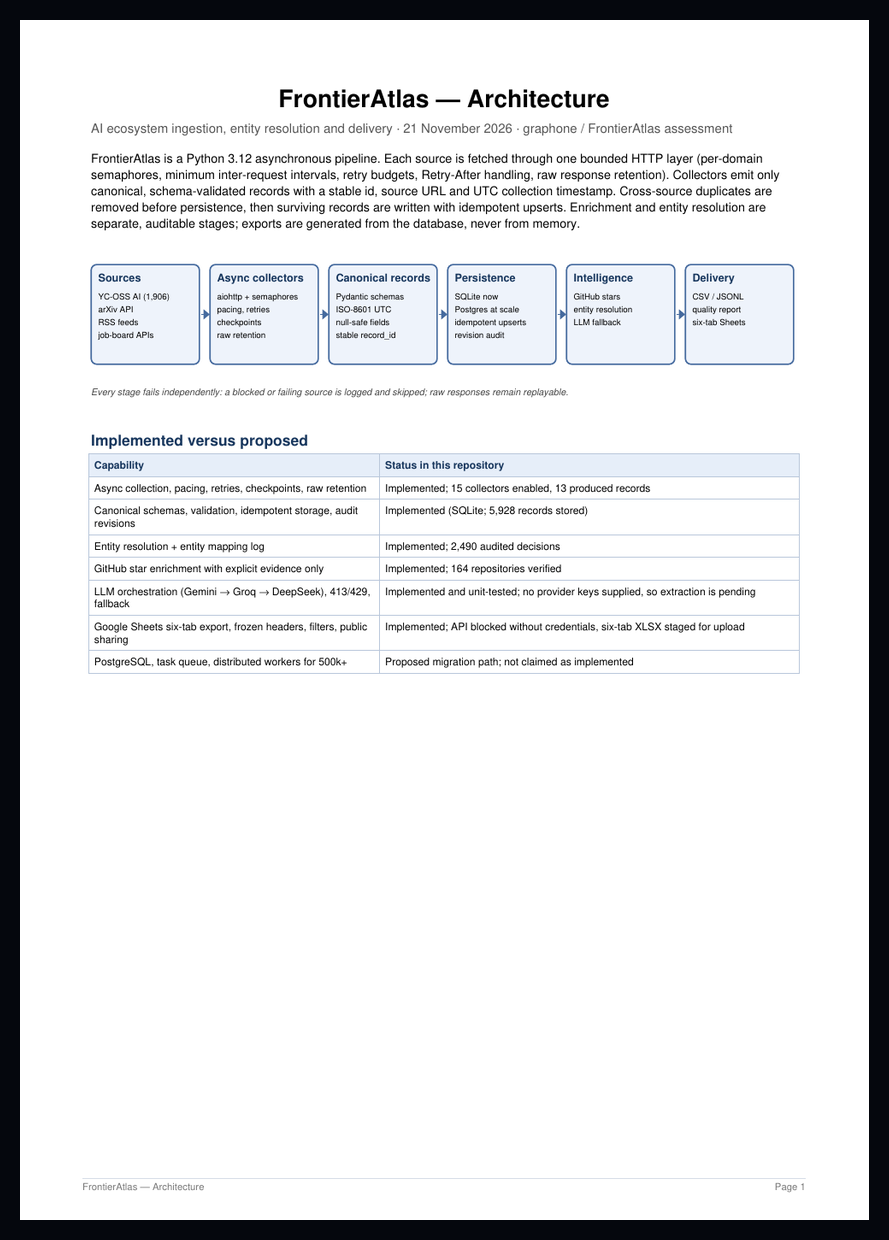
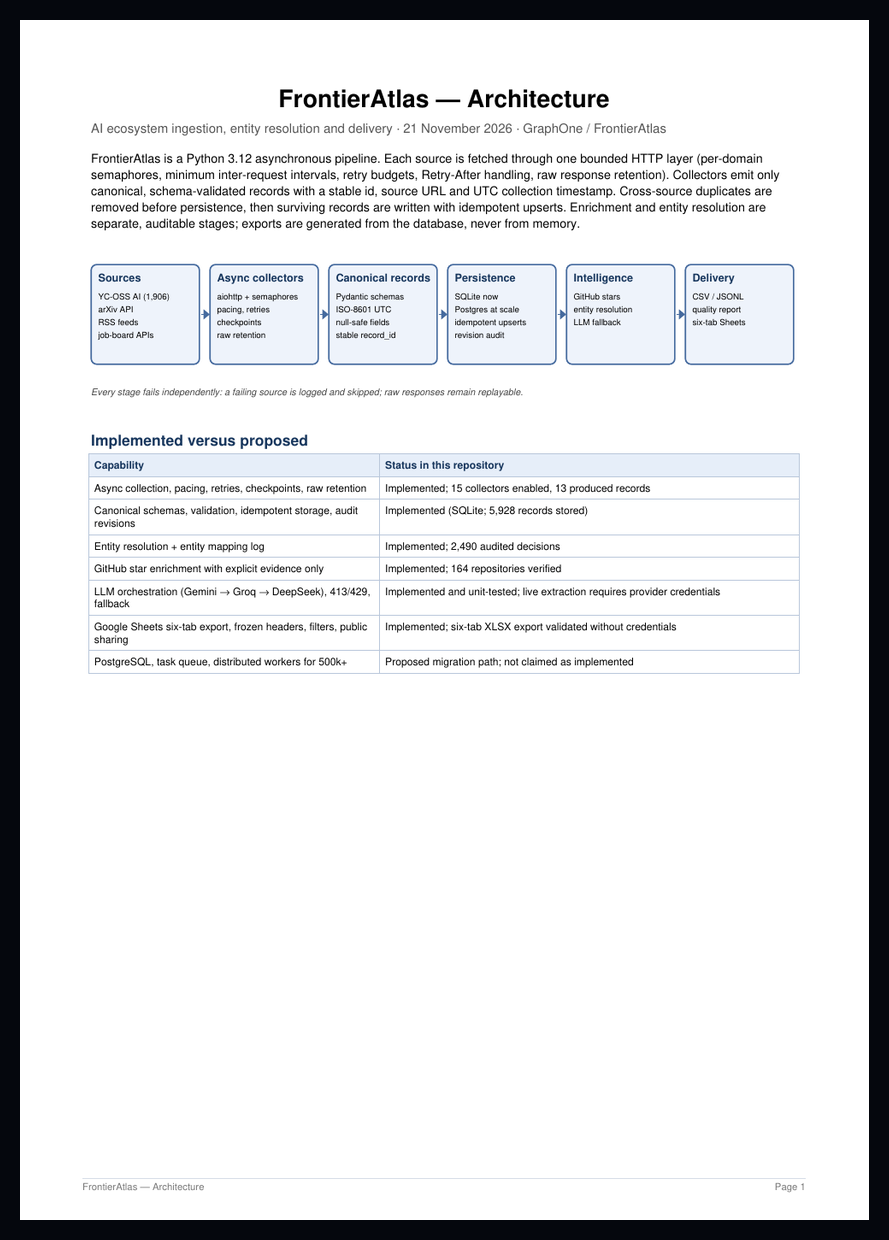
Remove internal planning docs and refresh architecture artifact

diff --git a/scripts/build_architecture_pdf.py b/scripts/build_architecture_pdf.py
@@ -41,7 +41,7 @@ def diagram() -> Drawing:
             start = x + box_width + 1
             drawing.add(Line(start, y + box_height / 2, start + gap - 2, y + box_height / 2, strokeColor=colors.HexColor("#456a9e")))
             drawing.add(Polygon([start + gap - 2, y + box_height / 2, start + gap - 5, y + box_height / 2 + 2.5, start + gap - 5, y + box_height / 2 - 2.5], fillColor=colors.HexColor("#456a9e"), strokeColor=colors.HexColor("#456a9e")))
-    drawing.add(String(0, 12, "Every stage fails independently: a blocked or failing source is logged and skipped; raw responses remain replayable.", fontName="Helvetica-Oblique", fontSize=6.5, fillColor=colors.HexColor("#444444")))
+    drawing.add(String(0, 12, "Every stage fails independently: a failing source is logged and skipped; raw responses remain replayable.", fontName="Helvetica-Oblique", fontSize=6.5, fillColor=colors.HexColor("#444444")))
     return drawing
 
 
@@ -90,7 +90,7 @@ def build() -> None:
 
     story = [
         Paragraph("FrontierAtlas — Architecture", h1),
-        Paragraph("AI ecosystem ingestion, entity resolution and delivery · 21 November 2026 · graphone / FrontierAtlas assessment", subtitle),
+        Paragraph("AI ecosystem ingestion, entity resolution and delivery · 21 November 2026 · GraphOne / FrontierAtlas", subtitle),
         Paragraph(
             "FrontierAtlas is a Python 3.12 asynchronous pipeline. Each source is fetched through one bounded HTTP layer "
             "(per-domain semaphores, minimum inter-request intervals, retry budgets, Retry-After handling, raw response retention). "
@@ -110,8 +110,8 @@ def build() -> None:
                 ["Canonical schemas, validation, idempotent storage, audit revisions", "Implemented (SQLite; 5,928 records stored)"],
                 ["Entity resolution + entity mapping log", "Implemented; 2,490 audited decisions"],
                 ["GitHub star enrichment with explicit evidence only", "Implemented; 164 repositories verified"],
-                ["LLM orchestration (Gemini → Groq → DeepSeek), 413/429, fallback", "Implemented and unit-tested; no provider keys supplied, so extraction is pending"],
-                ["Google Sheets six-tab export, frozen headers, filters, public sharing", "Implemented; API blocked without credentials, six-tab XLSX staged for upload"],
+                ["LLM orchestration (Gemini → Groq → DeepSeek), 413/429, fallback", "Implemented and unit-tested; live extraction requires provider credentials"],
+                ["Google Sheets six-tab export, frozen headers, filters, public sharing", "Implemented; six-tab XLSX export validated without credentials"],
                 ["PostgreSQL, task queue, distributed workers for 500k+", "Proposed migration path; not claimed as implemented"],
             ],
             [7.2 * cm, 10.4 * cm],
@@ -137,16 +137,16 @@ def build() -> None:
         ),
         Paragraph("413 payload-too-large and 429 rate-limit handling", h2),
         Paragraph(
-            "<b>413.</b> Input size is estimated before submission. Text is split on paragraph boundaries with sentence fallback and a configured character overlap, "
+            "<b>413.</b> Input size is estimated before dispatch. Text is split on paragraph boundaries with sentence fallback and a configured character overlap, "
             "then each semantic chunk is extracted independently. If a provider still returns 413, that chunk is split again at the nearest boundary (maximum depth 3) "
             "and both halves are re-extracted; results are merged deterministically (first non-null scalar wins, lists union, nested dictionaries merge, conflicts recorded). "
-            "Content is never silently discarded; a chunk that cannot be reduced is marked pending with the provider error preserved.",
+            "Content is never silently discarded; a chunk that cannot be reduced is marked unresolved with the provider error preserved.",
             body,
         ),
         Paragraph(
             "<b>429.</b> The HTTP layer honours Retry-After, applies exponential backoff with jitter, caps the wait, and records a per-domain penalty window. The LLM layer "
             "retries within a configured budget, then moves to the next provider in order (Gemini → Groq → DeepSeek). A provider that fails repeatedly is circuit-broken for "
-            "the run. Every failure, wait and fallback is logged with provider and attempt number. If all providers fail, the raw document and a pending status are retained; "
+            "the run. Every failure, wait and fallback is logged with provider and attempt number. If all providers fail, the raw document and an unresolved status are retained; "
             "no field is invented to fill the gap.",
             body,
         ),
@@ -163,7 +163,7 @@ def build() -> None:
         PageBreak(),
         Paragraph("Why SQLite now, PostgreSQL and derived graph/vector indexes later", h2),
         Paragraph(
-            "SQLite is the right local-development store for this submission: zero operations, WAL mode, transactional writes, and a schema that maps one-to-one onto PostgreSQL. "
+            "SQLite is the right local-development store for this deployment: zero operations, WAL mode, transactional writes, and a schema that maps one-to-one onto PostgreSQL. "
             "It preserves the properties the pipeline depends on — stable primary keys, unique constraints, idempotent upserts, indexed record types, checkpoint storage and audit history — "
             "while keeping the repository reproducible on a reviewer's machine. It is not presented as a production cluster database. PostgreSQL is the target system of record because "
             "it adds concurrent writers, partial indexes, JSONB payloads with GIN indexes, table partitioning by record type or collection month, and mature backup/observability tooling. "
@@ -198,7 +198,7 @@ def build() -> None:
         ),
         Spacer(1, 4),
         Paragraph(
-            "Limitations are stated rather than hidden: no LLM keys were supplied, so extraction remains pending; no Google service-account key was supplied, so the public Sheet is not published; "
+            "Operational limits are explicit: live LLM extraction requires provider credentials; the public Sheet is credential-gated; "
             "Remotive and Remote OK returned no listings that satisfied the strict 24-hour, timezone-aware rule at run time; 500k-record throughput has not been tested and is described only as a migration path.",
             small,
         ),
@@ -224,7 +224,7 @@ def build() -> None:
         bottomMargin=1.25 * cm,
         title="FrontierAtlas Architecture",
         author="Arghya Bose",
-        subject="GraphOne / FrontierAtlas AI Engineer assessment",
+        subject="GraphOne / FrontierAtlas",
     )
     doc.build(story, onFirstPage=footer, onLaterPages=footer)
     print(f"wrote {OUTPUT}")

diff --git a/scripts/verify_submission.py b/scripts/verify_submission.py
@@ -56,8 +56,6 @@ def main() -> int:
         "requirements.txt",
         "pyproject.toml",
         ".env.example",
-        "IMPLEMENTATION_PLAN.md",
-        "PROGRESS.md",
         "config/settings.yaml",
         "config/sources.yaml",
         "src/frontieratlas/schemas.py",

diff --git a/assets/readme/ASSET_INDEX.md b/assets/readme/ASSET_INDEX.md
@@ -9,7 +9,7 @@ Every visual in this folder is generated from the committed FrontierAtlas run. T
 | `02_source_yield_comparison.png` | Accepted / discovered yield for all 15 sources | `sources[]` |
 | `03_entity_resolution_split.png` | Auto / review / no-match split and method counts | `entity_resolution` |
 | `04_freshness_window.png` | Publication age of every accepted job and news item | `jobs.csv`, `news.csv` |
-| `05_targets_vs_actual.png` | Assignment targets compared with actual output | `targets` |
+| `05_targets_vs_actual.png` | Collection targets compared with actual output | `targets` |
 | `06_startup_industry_mix.png` | YC AI startup industry distribution | `startups.csv` |
 | `07_pipeline_architecture.png` | Implemented pipeline boundaries | repository modules |
 | `08_workbook_map.png` | Six tabs and reconciliation totals for the workbook | `data_quality_report.json` |

diff --git a/README.md b/README.md
@@ -313,7 +313,7 @@ The chart generator reads `data/exports/*.csv` and `data_quality_report.json`; t
 
 - A small review screen for the 71 entity candidates, with the source URL, candidate domain and evidence note beside each decision.
 - A production PostgreSQL path with a durable queue and source-partitioned workers, validated at 500k records rather than claimed.
-- Evidence-backed LLM extraction once a provider key is available, with the same “no evidence, no update” rule.
+- Evidence-backed LLM extraction once a provider key is available, with the same “no evidence, no change” rule.
 - Richer product descriptions, but only from sources that actually publish them.
 
 ## Provenance

diff --git a/submit files/00_READ_ME_FIRST.md b/submit files/00_READ_ME_FIRST.md
@@ -15,7 +15,7 @@ The submission packet with longer answers is `03_SUBMISSION_PACKET.md`. The form
 
 <https://forms.gle/3JJhukomumTFueRW7>
 
-> There is no public Google Sheet URL in this folder yet. I did not invent one. The workbook is the file that becomes the Sheet.
+> There is no public Google Sheet URL in this folder yet. No URL was invented. The workbook is the file that becomes the Sheet.
 
 ## Publish the Sheet in five steps
 
